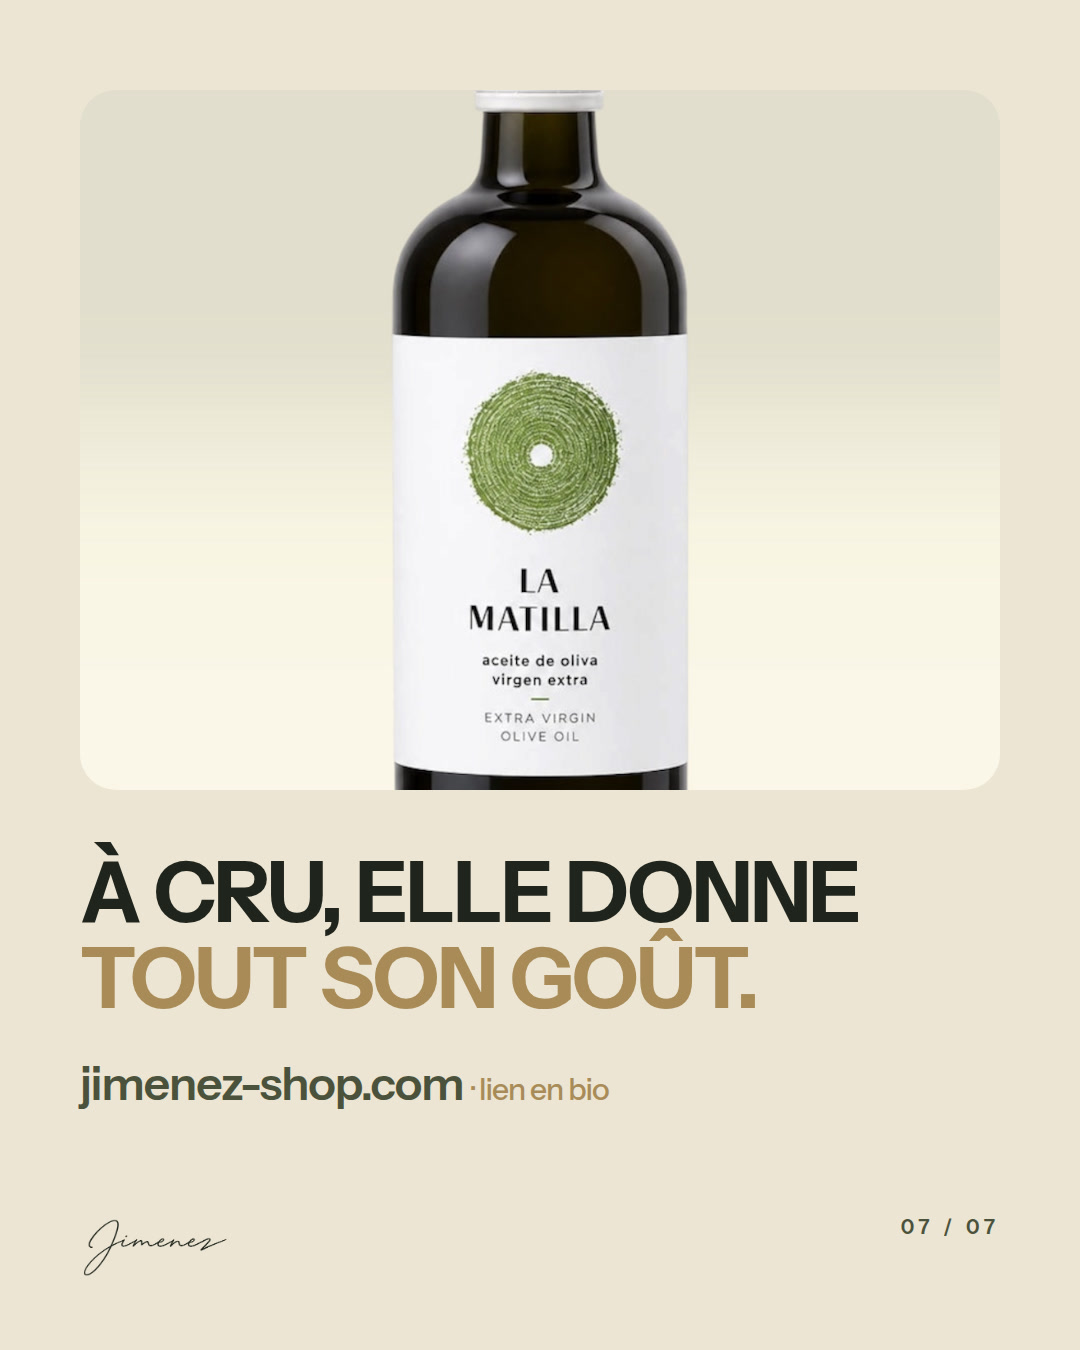
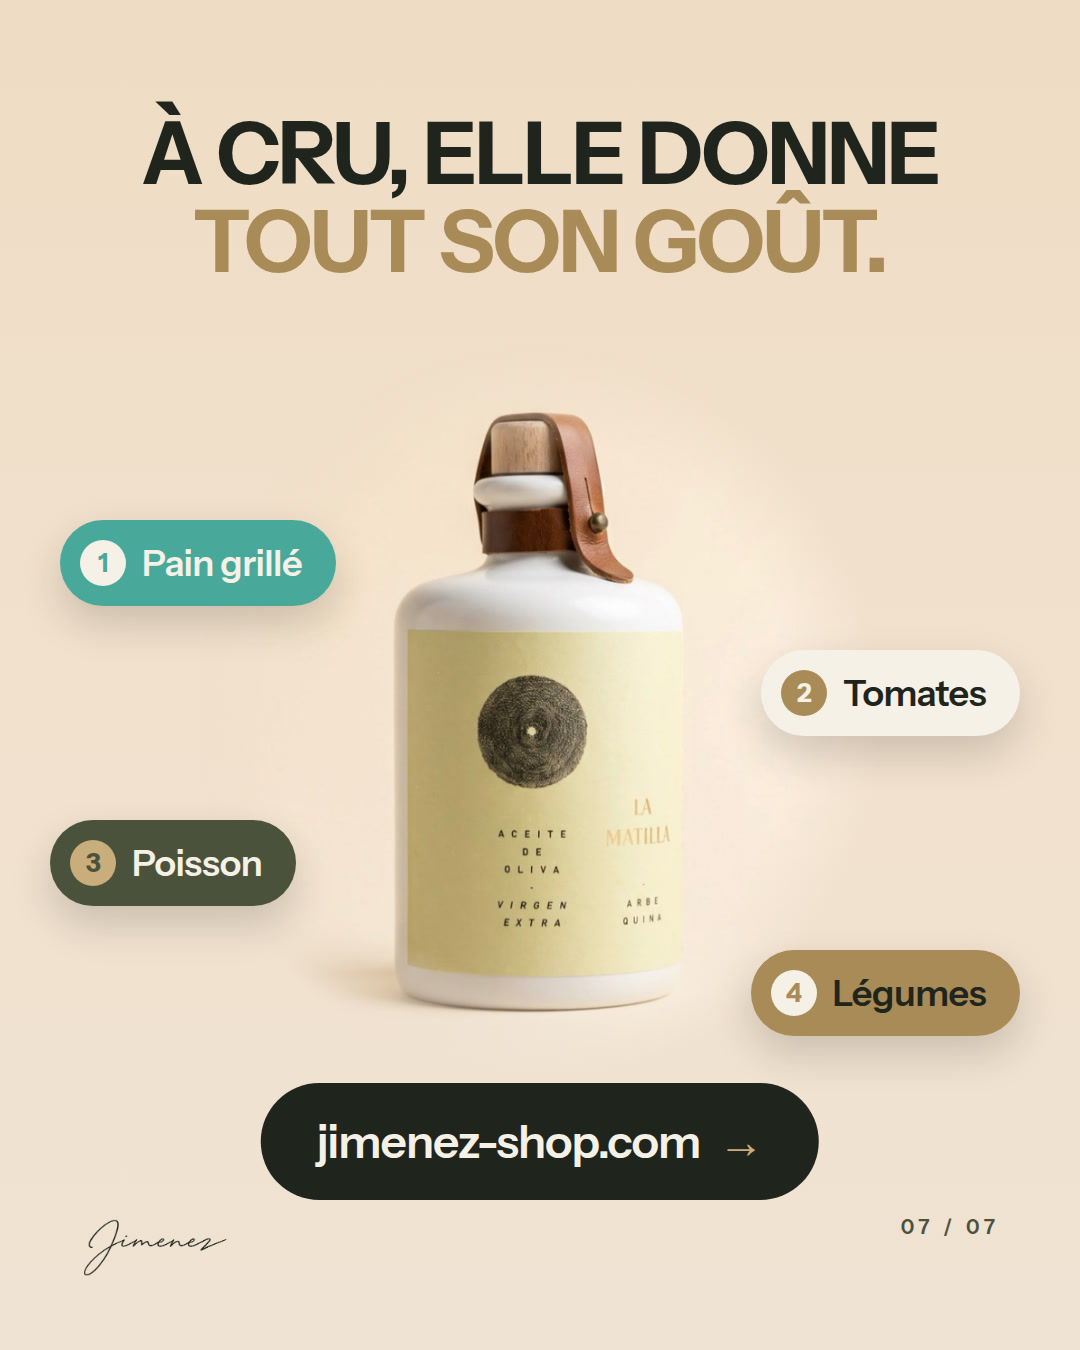
Carrousels : nouvelles dernières images (bouteille détourée, pastilles, bouton site)
Claude-Session: https://claude.ai/code/session_01UiVtPwDdPsmKbNcFJesaT8

diff --git a/instagram/video-source/carA.html b/instagram/video-source/carA.html
@@ -11,6 +11,10 @@ body{font-family:"Instrument Sans",sans-serif}
 .arch img,.rnd img{width:100%;height:100%;object-fit:cover;display:block}
 .rnd{position:absolute;overflow:hidden;border-radius:36px}
 .foot{position:absolute;left:80px;right:80px;bottom:70px;display:flex;justify-content:space-between;font-size:20px;letter-spacing:5px;text-transform:uppercase;font-weight:600}
+.pill{position:absolute;display:flex;align-items:center;gap:16px;padding:20px 34px 20px 20px;border-radius:999px;font-size:36px;font-weight:600;letter-spacing:-.5px;box-shadow:0 18px 40px rgba(31,36,28,.18);white-space:nowrap}
+.pill i{width:46px;height:46px;border-radius:50%;display:flex;align-items:center;justify-content:center;font-style:normal;font-size:26px;font-weight:700}
+.cta{position:absolute;left:50%;transform:translateX(-50%);bottom:150px;display:flex;align-items:center;gap:18px;padding:30px 56px;border-radius:999px;background:var(--ink);color:var(--cream);font-size:46px;font-weight:600;letter-spacing:-1px;white-space:nowrap}
+.cta span{color:var(--gold2)}
 .logo{width:150px}
 </style></head><body><div class="s" style="left:0px;background:var(--cream)"><div class="k" style="position:absolute;left:80px;top:90px;color:var(--gold)">Le guide · à enregistrer</div>
   <div class="H" style="position:absolute;left:80px;top:170px;font-size:104px;color:var(--ink)">Comment<br>reconnaître<br>une bonne<br><span style="color:var(--gold)">huile d'olive ?</span></div>
@@ -29,8 +33,9 @@ body{font-family:"Instrument Sans",sans-serif}
 <div class="s" style="left:4320px;background:var(--gold)"><div class="big" style="right:60px;top:90px;font-size:420px;color:transparent;-webkit-text-stroke:3px #1F241C;opacity:.85">04</div><div style="position:absolute;left:80px;bottom:230px;right:80px;color:var(--ink)">
   <div class="H" style="font-size:130px">Bien<br><span style="color:var(--cream)">conservée.</span></div>
   <div class="p" style="margin-top:44px;max-width:880px">Bouchon fermé, loin de la chaleur et de la lumière. Pas à côté des plaques.</div></div><div class="foot" style="color:var(--ink)"><img class="logo" src="img/logo_ink.png"><span>05 / 06</span></div></div>
-<div class="s" style="left:5400px;background:#F3E7D6"><div class="rnd" style="left:80px;top:90px;width:920px;height:700px"><img src="hq/ceramic.jpg" style="object-position:50% 32%"></div>
-  <div style="position:absolute;left:80px;top:850px;right:80px;color:var(--ink)">
-  <div class="H" style="font-size:92px">La nôtre coche<br><span style="color:var(--gold)">toutes les cases.</span></div>
-  <div style="margin-top:34px;font-size:46px;font-weight:600;letter-spacing:-1px;color:var(--olive)">jimenez-shop.com <span style="font-weight:500;font-size:30px;color:var(--gold)">· lien en bio</span></div></div><div class="foot" style="color:var(--olive)"><img class="logo" src="img/logo_ink.png"><span>06 / 06</span></div></div>
+<div class="s" style="left:5400px;background:#F3E7D6"><div style="position:absolute;inset:0;background:linear-gradient(#E1DECD,#EEEBD9 50%,#FBF8E9)"></div>
+  <img src="hq/bottle_white.jpg" style="position:absolute;left:0;top:230px;width:1080px;height:1000px;object-fit:contain;-webkit-mask-image:radial-gradient(ellipse 32% 46% at 50% 52%,#000 72%,transparent 100%)">
+  <div style="position:absolute;left:0;right:0;top:110px;text-align:center;color:var(--ink)"><div class="H" style="font-size:86px">La nôtre coche<br><span style="color:var(--gold)">toutes les cases.</span></div></div>
+  <div class="pill" style="left:60px;top:520px;background:var(--cream);color:var(--ink)"><i style="background:var(--gold);color:var(--cream)">✓</i>Vierge extra</div><div class="pill" style="right:50px;top:650px;background:var(--ink);color:var(--cream)"><i style="background:var(--gold2);color:var(--ink)">✓</i>Bouteille sombre</div><div class="pill" style="left:50px;top:820px;background:var(--teal);color:var(--cream)"><i style="background:var(--cream);color:var(--teal)">✓</i>Un peu de piquant</div><div class="pill" style="right:70px;top:950px;background:var(--gold);color:var(--ink)"><i style="background:var(--ink);color:var(--gold2)">✓</i>Bien protégée</div>
+  <div class="cta">jimenez-shop.com <span>→</span></div><div class="foot" style="color:var(--olive)"><img class="logo" src="img/logo_ink.png"><span>06 / 06</span></div></div>
 </body></html>

diff --git a/instagram/video-source/carB.html b/instagram/video-source/carB.html
@@ -11,6 +11,10 @@ body{font-family:"Instrument Sans",sans-serif}
 .arch img,.rnd img{width:100%;height:100%;object-fit:cover;display:block}
 .rnd{position:absolute;overflow:hidden;border-radius:36px}
 .foot{position:absolute;left:80px;right:80px;bottom:70px;display:flex;justify-content:space-between;font-size:20px;letter-spacing:5px;text-transform:uppercase;font-weight:600}
+.pill{position:absolute;display:flex;align-items:center;gap:16px;padding:20px 34px 20px 20px;border-radius:999px;font-size:36px;font-weight:600;letter-spacing:-.5px;box-shadow:0 18px 40px rgba(31,36,28,.18);white-space:nowrap}
+.pill i{width:46px;height:46px;border-radius:50%;display:flex;align-items:center;justify-content:center;font-style:normal;font-size:26px;font-weight:700}
+.cta{position:absolute;left:50%;transform:translateX(-50%);bottom:150px;display:flex;align-items:center;gap:18px;padding:30px 56px;border-radius:999px;background:var(--ink);color:var(--cream);font-size:46px;font-weight:600;letter-spacing:-1px;white-space:nowrap}
+.cta span{color:var(--gold2)}
 .logo{width:150px}
 </style></head><body><div class="s" style="left:0px;background:var(--ink)"><div class="rnd" style="left:520px;top:90px;width:480px;height:640px;border-radius:240px"><img src="hq/ceramic.jpg" style="object-position:50% 50%;transform:scale(1.25)"></div>
   <div class="k" style="position:absolute;left:80px;top:110px;color:var(--gold2)">Huile d'olive<br>vierge extra</div>
@@ -35,8 +39,9 @@ body{font-family:"Instrument Sans",sans-serif}
   <div style="position:absolute;left:80px;bottom:220px;right:80px;color:var(--ink)">
   <div class="H" style="font-size:118px">Toute<br><span style="color:var(--cream)">seule.</span></div>
   <div class="p" style="margin-top:40px;max-width:880px">Sur un morceau de pain, pour sentir le fruit. C'est là qu'on voit la différence.</div></div><div class="foot" style="color:var(--ink)"><img class="logo" src="img/logo_ink.png"><span>06 / 07</span></div></div>
-<div class="s" style="left:6480px;background:#ECE5D3"><div class="rnd" style="left:80px;top:90px;width:920px;height:700px"><img src="hq/bottle_white.jpg" style="object-position:50% 50%;transform:scale(1.35)"></div>
-  <div style="position:absolute;left:80px;top:850px;right:80px;color:var(--ink)">
-  <div class="H" style="font-size:84px">À cru, elle donne<br><span style="color:var(--gold)">tout son goût.</span></div>
-  <div style="margin-top:34px;font-size:46px;font-weight:600;letter-spacing:-1px;color:var(--olive)">jimenez-shop.com <span style="font-weight:500;font-size:30px;color:var(--gold)">· lien en bio</span></div></div><div class="foot" style="color:var(--olive)"><img class="logo" src="img/logo_ink.png"><span>07 / 07</span></div></div>
+<div class="s" style="left:6480px;background:#ECE5D3"><div style="position:absolute;inset:0;background:linear-gradient(#EEDCC4,#F2E1CD 50%,#EFE3D3)"></div>
+  <img src="hq/ceramic.jpg" style="position:absolute;left:0;top:300px;width:1080px;height:800px;object-fit:contain;-webkit-mask-image:radial-gradient(ellipse 32% 46% at 50% 52%,#000 72%,transparent 100%)">
+  <div style="position:absolute;left:0;right:0;top:110px;text-align:center;color:var(--ink)"><div class="H" style="font-size:86px">À cru, elle donne<br><span style="color:var(--gold)">tout son goût.</span></div></div>
+  <div class="pill" style="left:60px;top:520px;background:var(--teal);color:var(--cream)"><i style="background:var(--cream);color:var(--teal)">1</i>Pain grillé</div><div class="pill" style="right:60px;top:650px;background:var(--cream);color:var(--ink)"><i style="background:var(--gold);color:var(--cream)">2</i>Tomates</div><div class="pill" style="left:50px;top:820px;background:var(--olive);color:var(--cream)"><i style="background:var(--gold2);color:var(--olive)">3</i>Poisson</div><div class="pill" style="right:60px;top:950px;background:var(--gold);color:var(--ink)"><i style="background:var(--cream);color:var(--gold)">4</i>Légumes</div>
+  <div class="cta">jimenez-shop.com <span>→</span></div><div class="foot" style="color:var(--olive)"><img class="logo" src="img/logo_ink.png"><span>07 / 07</span></div></div>
 </body></html>

diff --git a/instagram/video-source/mk.py b/instagram/video-source/mk.py
@@ -11,6 +11,10 @@ body{font-family:"Instrument Sans",sans-serif}
 .arch img,.rnd img{width:100%;height:100%;object-fit:cover;display:block}
 .rnd{position:absolute;overflow:hidden;border-radius:36px}
 .foot{position:absolute;left:80px;right:80px;bottom:70px;display:flex;justify-content:space-between;font-size:20px;letter-spacing:5px;text-transform:uppercase;font-weight:600}
+.pill{position:absolute;display:flex;align-items:center;gap:16px;padding:20px 34px 20px 20px;border-radius:999px;font-size:36px;font-weight:600;letter-spacing:-.5px;box-shadow:0 18px 40px rgba(31,36,28,.18);white-space:nowrap}
+.pill i{width:46px;height:46px;border-radius:50%;display:flex;align-items:center;justify-content:center;font-style:normal;font-size:26px;font-weight:700}
+.cta{position:absolute;left:50%;transform:translateX(-50%);bottom:150px;display:flex;align-items:center;gap:18px;padding:30px 56px;border-radius:999px;background:var(--ink);color:var(--cream);font-size:46px;font-weight:600;letter-spacing:-1px;white-space:nowrap}
+.cta span{color:var(--gold2)}
 .logo{width:150px}
 </style></head><body>'''
 def foot(i,n,c,logo='cream'):
@@ -24,6 +28,8 @@ def write(name,slides):
 
 # ---- Carrousel A : le guide
 num=lambda t,c,extra='': f'<div class="big" style="right:60px;top:90px;font-size:420px;color:transparent;-webkit-text-stroke:3px {c};{extra}">{t}</div>'
+A6END='<div style="position:absolute;inset:0;background:linear-gradient(#E1DECD,#EEEBD9 50%,#FBF8E9)"></div>\n  <img src="hq/bottle_white.jpg" style="position:absolute;left:0;top:230px;width:1080px;height:1000px;object-fit:contain;-webkit-mask-image:radial-gradient(ellipse 32% 46% at 50% 52%,#000 72%,transparent 100%)">\n  <div style="position:absolute;left:0;right:0;top:110px;text-align:center;color:var(--ink)"><div class="H" style="font-size:86px">La nôtre coche<br><span style="color:var(--gold)">toutes les cases.</span></div></div>\n  <div class="pill" style="left:60px;top:520px;background:var(--cream);color:var(--ink)"><i style="background:var(--gold);color:var(--cream)">✓</i>Vierge extra</div><div class="pill" style="right:50px;top:650px;background:var(--ink);color:var(--cream)"><i style="background:var(--gold2);color:var(--ink)">✓</i>Bouteille sombre</div><div class="pill" style="left:50px;top:820px;background:var(--teal);color:var(--cream)"><i style="background:var(--cream);color:var(--teal)">✓</i>Un peu de piquant</div><div class="pill" style="right:70px;top:950px;background:var(--gold);color:var(--ink)"><i style="background:var(--ink);color:var(--gold2)">✓</i>Bien protégée</div>\n  <div class="cta">jimenez-shop.com <span>→</span></div>'
+B7END='<div style="position:absolute;inset:0;background:linear-gradient(#EEDCC4,#F2E1CD 50%,#EFE3D3)"></div>\n  <img src="hq/ceramic.jpg" style="position:absolute;left:0;top:300px;width:1080px;height:800px;object-fit:contain;-webkit-mask-image:radial-gradient(ellipse 32% 46% at 50% 52%,#000 72%,transparent 100%)">\n  <div style="position:absolute;left:0;right:0;top:110px;text-align:center;color:var(--ink)"><div class="H" style="font-size:86px">À cru, elle donne<br><span style="color:var(--gold)">tout son goût.</span></div></div>\n  <div class="pill" style="left:60px;top:520px;background:var(--teal);color:var(--cream)"><i style="background:var(--cream);color:var(--teal)">1</i>Pain grillé</div><div class="pill" style="right:60px;top:650px;background:var(--cream);color:var(--ink)"><i style="background:var(--gold);color:var(--cream)">2</i>Tomates</div><div class="pill" style="left:50px;top:820px;background:var(--olive);color:var(--cream)"><i style="background:var(--gold2);color:var(--olive)">3</i>Poisson</div><div class="pill" style="right:60px;top:950px;background:var(--gold);color:var(--ink)"><i style="background:var(--cream);color:var(--gold)">4</i>Légumes</div>\n  <div class="cta">jimenez-shop.com <span>→</span></div>'
 A=[
  ('var(--cream)','''<div class="k" style="position:absolute;left:80px;top:90px;color:var(--gold)">Le guide · à enregistrer</div>
   <div class="H" style="position:absolute;left:80px;top:170px;font-size:104px;color:var(--ink)">Comment<br>reconnaître<br>une bonne<br><span style="color:var(--gold)">huile d'olive ?</span></div>
@@ -42,10 +48,7 @@ A=[
  ('var(--gold)',num('04','#1F241C','opacity:.85')+'''<div style="position:absolute;left:80px;bottom:230px;right:80px;color:var(--ink)">
   <div class="H" style="font-size:130px">Bien<br><span style="color:var(--cream)">conservée.</span></div>
   <div class="p" style="margin-top:44px;max-width:880px">Bouchon fermé, loin de la chaleur et de la lumière. Pas à côté des plaques.</div></div>''','var(--ink)','ink'),
- ('#F3E7D6','''<div class="rnd" style="left:80px;top:90px;width:920px;height:700px"><img src="hq/ceramic.jpg" style="object-position:50% 32%"></div>
-  <div style="position:absolute;left:80px;top:850px;right:80px;color:var(--ink)">
-  <div class="H" style="font-size:92px">La nôtre coche<br><span style="color:var(--gold)">toutes les cases.</span></div>
-  <div style="margin-top:34px;font-size:46px;font-weight:600;letter-spacing:-1px;color:var(--olive)">jimenez-shop.com <span style="font-weight:500;font-size:30px;color:var(--gold)">· lien en bio</span></div></div>''','var(--olive)','ink'),
+ ('#F3E7D6',A6END,'var(--olive)','ink'),
 ]
 write('carA.html',A)
 
@@ -64,9 +67,6 @@ B=[
  idea('3','var(--olive)','var(--cream)','var(--gold2)','Poisson','grillé.','Un filet à cru au moment de servir, comme un assaisonnement.','cream'),
  idea('4','var(--gold)','var(--ink)','var(--cream)','Légumes','grillés.','Courgettes, poivrons, aubergines : un trait d\'huile en sortant du four.','ink'),
  idea('5','var(--sage)','var(--ink)','var(--cream)','Toute','seule.','Sur un morceau de pain, pour sentir le fruit. C\'est là qu\'on voit la différence.','ink'),
- ('#ECE5D3','''<div class="rnd" style="left:80px;top:90px;width:920px;height:700px"><img src="hq/bottle_white.jpg" style="object-position:50% 50%;transform:scale(1.35)"></div>
-  <div style="position:absolute;left:80px;top:850px;right:80px;color:var(--ink)">
-  <div class="H" style="font-size:84px">À cru, elle donne<br><span style="color:var(--gold)">tout son goût.</span></div>
-  <div style="margin-top:34px;font-size:46px;font-weight:600;letter-spacing:-1px;color:var(--olive)">jimenez-shop.com <span style="font-weight:500;font-size:30px;color:var(--gold)">· lien en bio</span></div></div>''','var(--olive)','ink'),
+ ('#ECE5D3',B7END,'var(--olive)','ink'),
 ]
 write('carB.html',B)

diff --git a/instagram/video-source/ends.py b/instagram/video-source/ends.py
@@ -1,0 +1,20 @@
+def end(img,bg,top,h,title,pills):
+    P=''.join(f'<div class="pill" style="{xy};background:{b};color:{fg}"><i style="background:{ib};color:{ic}">{ch}</i>{t}</div>' for xy,b,fg,ib,ic,ch,t in pills)
+    return f'''<div style="position:absolute;inset:0;background:{bg}"></div>
+  <img src="hq/{img}" style="position:absolute;left:0;top:{top}px;width:1080px;height:{h}px;object-fit:contain;-webkit-mask-image:radial-gradient(ellipse 32% 46% at 50% 52%,#000 72%,transparent 100%)">
+  <div style="position:absolute;left:0;right:0;top:110px;text-align:center;color:var(--ink)"><div class="H" style="font-size:86px">{title}</div></div>
+  {P}
+  <div class="cta">jimenez-shop.com <span>→</span></div>'''
+A6=end('bottle_white.jpg','linear-gradient(#E1DECD,#EEEBD9 50%,#FBF8E9)',230,1000,'La nôtre coche<br><span style="color:var(--gold)">toutes les cases.</span>',[
+ ('left:60px;top:520px','var(--cream)','var(--ink)','var(--gold)','var(--cream)','✓','Vierge extra'),
+ ('right:50px;top:650px','var(--ink)','var(--cream)','var(--gold2)','var(--ink)','✓','Bouteille sombre'),
+ ('left:50px;top:820px','var(--teal)','var(--cream)','var(--cream)','var(--teal)','✓','Un peu de piquant'),
+ ('right:70px;top:950px','var(--gold)','var(--ink)','var(--ink)','var(--gold2)','✓','Bien protégée'),])
+B7=end('ceramic.jpg','linear-gradient(#EEDCC4,#F2E1CD 50%,#EFE3D3)',300,800,'À cru, elle donne<br><span style="color:var(--gold)">tout son goût.</span>',[
+ ('left:60px;top:520px','var(--teal)','var(--cream)','var(--cream)','var(--teal)','1','Pain grillé'),
+ ('right:60px;top:650px','var(--cream)','var(--ink)','var(--gold)','var(--cream)','2','Tomates'),
+ ('left:50px;top:820px','var(--olive)','var(--cream)','var(--gold2)','var(--olive)','3','Poisson'),
+ ('right:60px;top:950px','var(--gold)','var(--ink)','var(--cream)','var(--gold)','4','Légumes'),])
+L=open('mk.py').read().split('\n')
+L=[('A6END=%r'%A6 if l.startswith('A6END=') else 'B7END=%r'%B7 if l.startswith('B7END=') else l) for l in L]
+open('mk.py','w').write('\n'.join(L))
